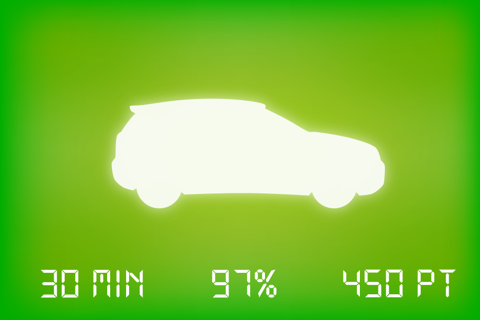
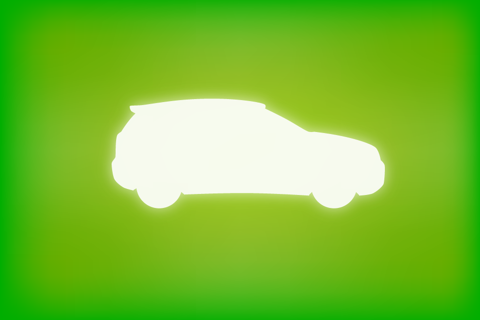
Agregado el score para medir buen manejo cada 100 metros

Changed region(s): [[0.6875, 0.8438, 0.9375, 0.9375], [0.0938, 0.8438, 0.3125, 0.9375], [0.4375, 0.8438, 0.5938, 0.9375]]

diff --git a/ios/app/controllers/driver_controller.rb b/ios/app/controllers/driver_controller.rb
@@ -1,6 +1,9 @@
 class DriverController < UIViewController
 
   def viewDidLoad
+    @temp_score = 0
+    @total_score = 0
+    @temp_distance = 0
     self.view.backgroundColor = UIColor.alloc.initWithPatternImage(UIImage.imageNamed("play.png"))
 
     configure_ui
@@ -8,6 +11,16 @@ class DriverController < UIViewController
 
     @engine = Engine.new
     @engine.start
+  end
+
+  def touchesEnded(touches, withEvent:event)
+    if @engine.status == 1
+      @engine.pause
+      self.view.backgroundColor = UIColor.alloc.initWithPatternImage(UIImage.imageNamed("pause.png"))
+    elsif @engine.status == 0
+      @engine.start
+      self.view.backgroundColor = UIColor.alloc.initWithPatternImage(UIImage.imageNamed("play.png"))
+    end
   end
 
   def shouldAutorotateToInterfaceOrientation(orientation)
@@ -19,29 +32,103 @@ class DriverController < UIViewController
 
   def suscribe_to_events
     @foreground_observer = App.notification_center.observe "notificationLocator" do |notification|
-      @movement_label.text = notification.object.distance.to_s      
+
+      @movement_label.text = notification.object.distance.to_i.to_s
+
+      @temp_score += notification.object.distance.to_i
+
+      if @temp_distance + notification.object.distance.to_i <= 100
+        @temp_distance += notification.object.distance.to_i
+      else
+        @temp_distance = 0
+        @total_score += @temp_score
+      end
+
+      @level_label.text = @temp_score.to_s
+      @distance_label.text = @temp_distance.to_s
+      @score_label.text = @total_score.to_s
+
     end
 
     @reload_observer = App.notification_center.observe "notificationAccelerator" do |notification|
+
+      if @temp_score - notification.object.level < 0
+        @temp_score = 0
+      else
+        @temp_score -= notification.object.level
+      end
+
+      @level_label.text = @temp_score.to_s
+      @distance_label.text = @temp_distance.to_s
+      @score_label.text = @total_score.to_s
+
       @accelerate_label.text = notification.object.level.to_s
-      if notification.object.level > 10 && notification.object.level < 20
+
+      if notification.object.level > 5 && notification.object.level < 10
         self.view.backgroundColor = UIColor.alloc.initWithPatternImage(UIImage.imageNamed("warning.png"))
-      elsif notification.object.level > 20
-        self.view.backgroundColor = UIColor.alloc.initWithPatternImage(UIImage.imageNamed("alert.png"))
+      elsif notification.object.level > 10
+        self.view.backgroundColor = UIColor.alloc.initWithPatternImage(UIImage.imageNamed("warning2.png"))
       else
         self.view.backgroundColor = UIColor.alloc.initWithPatternImage(UIImage.imageNamed("play.png"))
       end
     end
   end
 
+  
   def configure_ui
+
+    @accelerate_title = UILabel.new
+    @accelerate_title.font = UIFont.systemFontOfSize(20)
+    @accelerate_title.text = 'Movimiento'
+    @accelerate_title.textAlignment = UITextAlignmentCenter 
+    @accelerate_title.textColor = UIColor.redColor
+    @accelerate_title.backgroundColor = UIColor.clearColor
+    @accelerate_title.frame = [[20, 20], [150, 30]]
+    self.view.addSubview(@accelerate_title)
+
+    @movement_title = UILabel.new
+    @movement_title.font = UIFont.systemFontOfSize(20)
+    @movement_title.text = 'Nuevos metros'
+    @movement_title.textAlignment = UITextAlignmentCenter
+    @movement_title.textColor = UIColor.redColor
+    @movement_title.backgroundColor = UIColor.clearColor
+    @movement_title.frame = [[20, 50], [150, 30]]
+    self.view.addSubview(@movement_title)
+
+    @distance_title = UILabel.new
+    @distance_title.font = UIFont.systemFontOfSize(20)
+    @distance_title.text = 'Medida 100m'
+    @distance_title.textAlignment = UITextAlignmentCenter
+    @distance_title.textColor = UIColor.redColor
+    @distance_title.backgroundColor = UIColor.clearColor
+    @distance_title.frame = [[20, 80], [150, 30]]
+    self.view.addSubview(@distance_title)
+
+    @level_title = UILabel.new
+    @level_title.font = UIFont.systemFontOfSize(20)
+    @level_title.text = 'Score 100m'
+    @level_title.textAlignment = UITextAlignmentCenter
+    @level_title.textColor = UIColor.redColor
+    @level_title.backgroundColor = UIColor.clearColor
+    @level_title.frame = [[20, 110], [150, 30]]
+    self.view.addSubview(@level_title)
+
+    @score_title = UILabel.new
+    @score_title.font = UIFont.systemFontOfSize(20)
+    @score_title.text = 'SCORE TOTAL'
+    @score_title.textAlignment = UITextAlignmentCenter
+    @score_title.textColor = UIColor.blackColor
+    @score_title.backgroundColor = UIColor.clearColor
+    @score_title.frame = [[20, 140], [150, 30]]
+    self.view.addSubview(@score_title)
+
     @accelerate_label = UILabel.new
     @accelerate_label.font = UIFont.systemFontOfSize(25)
     @accelerate_label.text = 'ACE'
     @accelerate_label.textAlignment = UITextAlignmentCenter 
     @accelerate_label.textColor = UIColor.redColor
     @accelerate_label.backgroundColor = UIColor.clearColor
-    @accelerate_label.frame = [[20, 20], [150, 130]]
+    @accelerate_label.frame = [[180, 20], [150, 30]]
     self.view.addSubview(@accelerate_label)
 
     @movement_label = UILabel.new
@@ -50,10 +137,34 @@ class DriverController < UIViewController
     @movement_label.textAlignment = UITextAlignmentCenter
     @movement_label.textColor = UIColor.redColor
     @movement_label.backgroundColor = UIColor.clearColor
-    @movement_label.frame = [[20, 50], [150, 180]]
+    @movement_label.frame = [[180, 50], [150, 30]]
     self.view.addSubview(@movement_label)
+
+    @distance_label = UILabel.new
+    @distance_label.font = UIFont.systemFontOfSize(25)
+    @distance_label.text = 'DIST'
+    @distance_label.textAlignment = UITextAlignmentCenter
+    @distance_label.textColor = UIColor.redColor
+    @distance_label.backgroundColor = UIColor.clearColor
+    @distance_label.frame = [[180, 80], [150, 30]]
+    self.view.addSubview(@distance_label)
+
+    @level_label = UILabel.new
+    @level_label.font = UIFont.systemFontOfSize(25)
+    @level_label.text = 'LEVEL'
+    @level_label.textAlignment = UITextAlignmentCenter
+    @level_label.textColor = UIColor.redColor
+    @level_label.backgroundColor = UIColor.clearColor
+    @level_label.frame = [[180, 110], [150, 30]]
+    self.view.addSubview(@level_label)
+
+    @score_label = UILabel.new
+    @score_label.font = UIFont.systemFontOfSize(25)
+    @score_label.text = 'SCORE'
+    @score_label.textAlignment = UITextAlignmentCenter
+    @score_label.textColor = UIColor.blackColor
+    @score_label.backgroundColor = UIColor.clearColor
+    @score_label.frame = [[180, 140], [150, 30]]
+    self.view.addSubview(@score_label)
   end
-
-
-  
 end

diff --git a/ios/app/classes/engine.rb b/ios/app/classes/engine.rb
@@ -1,17 +1,33 @@
 class Engine
 
+  def status; @status; end
+
 	def start
-    @isStarted = TRUE   
-    @distance = 0.0 
-    @initial_x_value = 0
-    @initial_y_value = 0
+    if @status != 0
+      initializeValues
+    end
     initializeAccelerometer
     initializeLocator
+    @status = 1    
 	end
 
-	def stop
-    @isStarted = FALSE
+  def initializeValues
+    @distance = 0.0 
+    @total_distance = 0.0 
+    @initial_x_value = 0
+    @initial_y_value = 0
+  end
+
+	def stop    
+    @status = -1
+    @accelerometer.delegate = nil
+    initializeValues
 	end
+
+  def pause
+    @status = 0    
+    @accelerometer.delegate = nil
+  end
 
   def notificateLocator(locatorNotif)
     App.notification_center.post("notificationLocator", locatorNotif)
@@ -30,22 +46,26 @@ class Engine
         @initial_coordinate = CLLocationCoordinate2D.new(result[:to].latitude, result[:to].longitude)
       end
 
+      p "distance #{@distance.to_s}"
+      p "total distance #{@total_distance.to_s}"
+
       if result[:from] != nil
-        @distance += haversin_distance(result[:to].latitude, result[:to].longitude, result[:from].latitude, result[:from].longitude)
+        @distance = haversin_distance(result[:to].latitude, result[:to].longitude, result[:from].latitude, result[:from].longitude)
+        @total_distance += @distance
         coordinate = CLLocationCoordinate2D.new(result[:to].latitude, result[:to].longitude)
         movement_notification = MovementNotification.new(@distance, coordinate)
         self.notificateLocator(movement_notification)
       end
       
-      if !@is_started
+      if @status != 1
         break
       end
     end
   end
 
 	def initializeAccelerometer
-    UIAccelerometer.sharedAccelerometer.setUpdateInterval 0.3
-    UIAccelerometer.sharedAccelerometer.setDelegate self    
+    @accelerometer = UIAccelerometer.sharedAccelerometer.setUpdateInterval 0.3
+    @accelerometer.setDelegate self
   end
 
   def accelerometer (accelerometer, didAccelerate:acceleration)
@@ -55,12 +75,10 @@ class Engine
       @initial_y_value = acceleration.y
     end
     
-    move_x_value = ((@initial_x_value - acceleration.x)*100.0).abs.to_i
-    move_y_value = ((@initial_y_value - acceleration.y)*100.0).abs.to_i 
+    move_x_value = ((@initial_x_value - acceleration.x)*40.0).abs.to_i
+    move_y_value = ((@initial_y_value - acceleration.y)*40.0).abs.to_i 
 
     notif = AcceleratorNotification.new(move_x_value + move_y_value)
-
-    # notif = AcceleratorNotification.new(acceleration.x + acceleration.y)
 
     self.notificateAccelerator(notif)
   end
